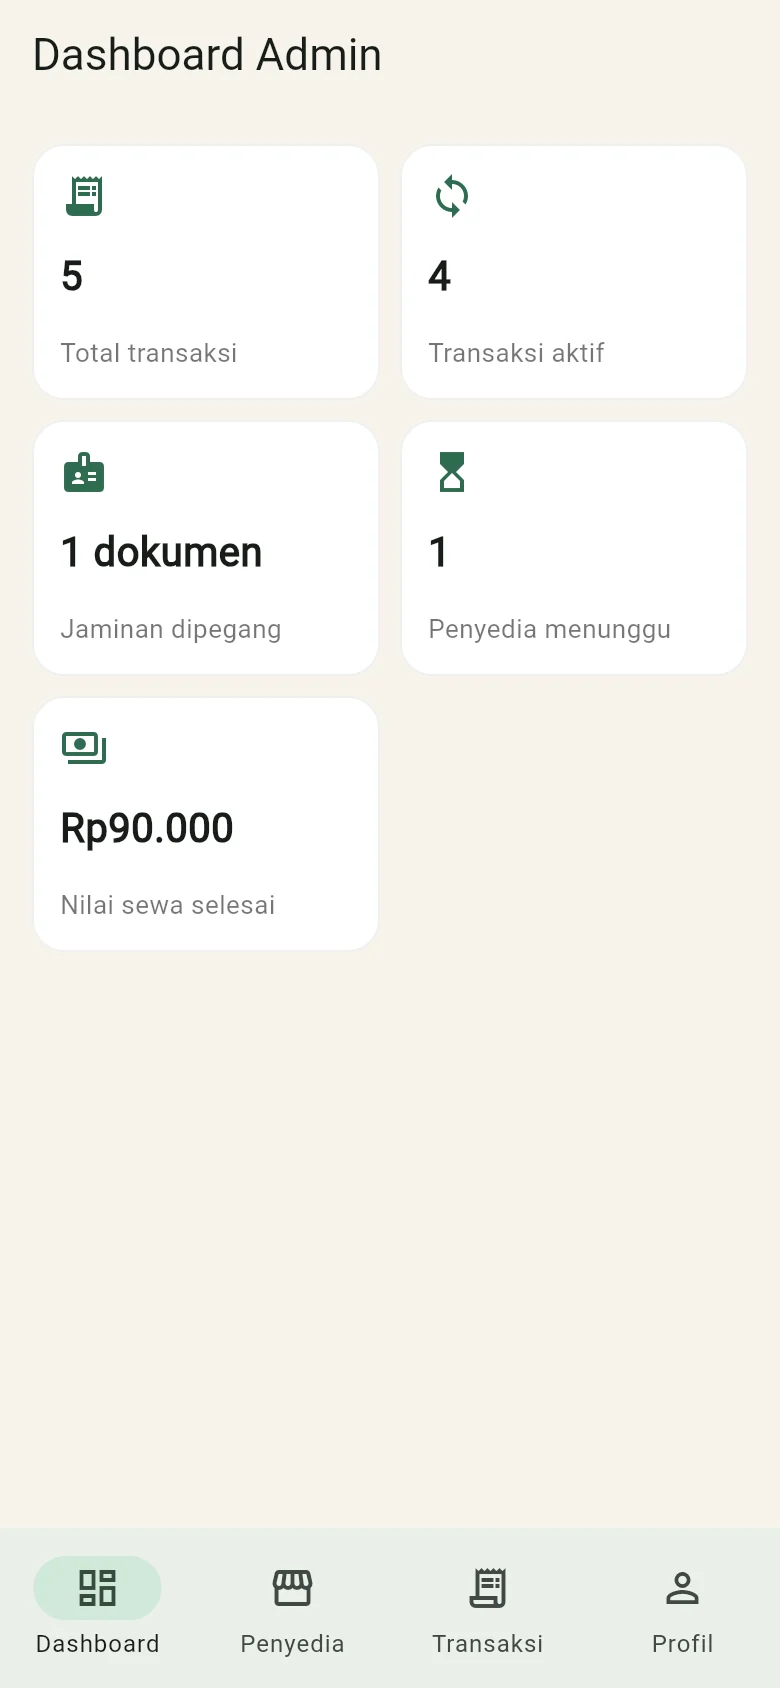
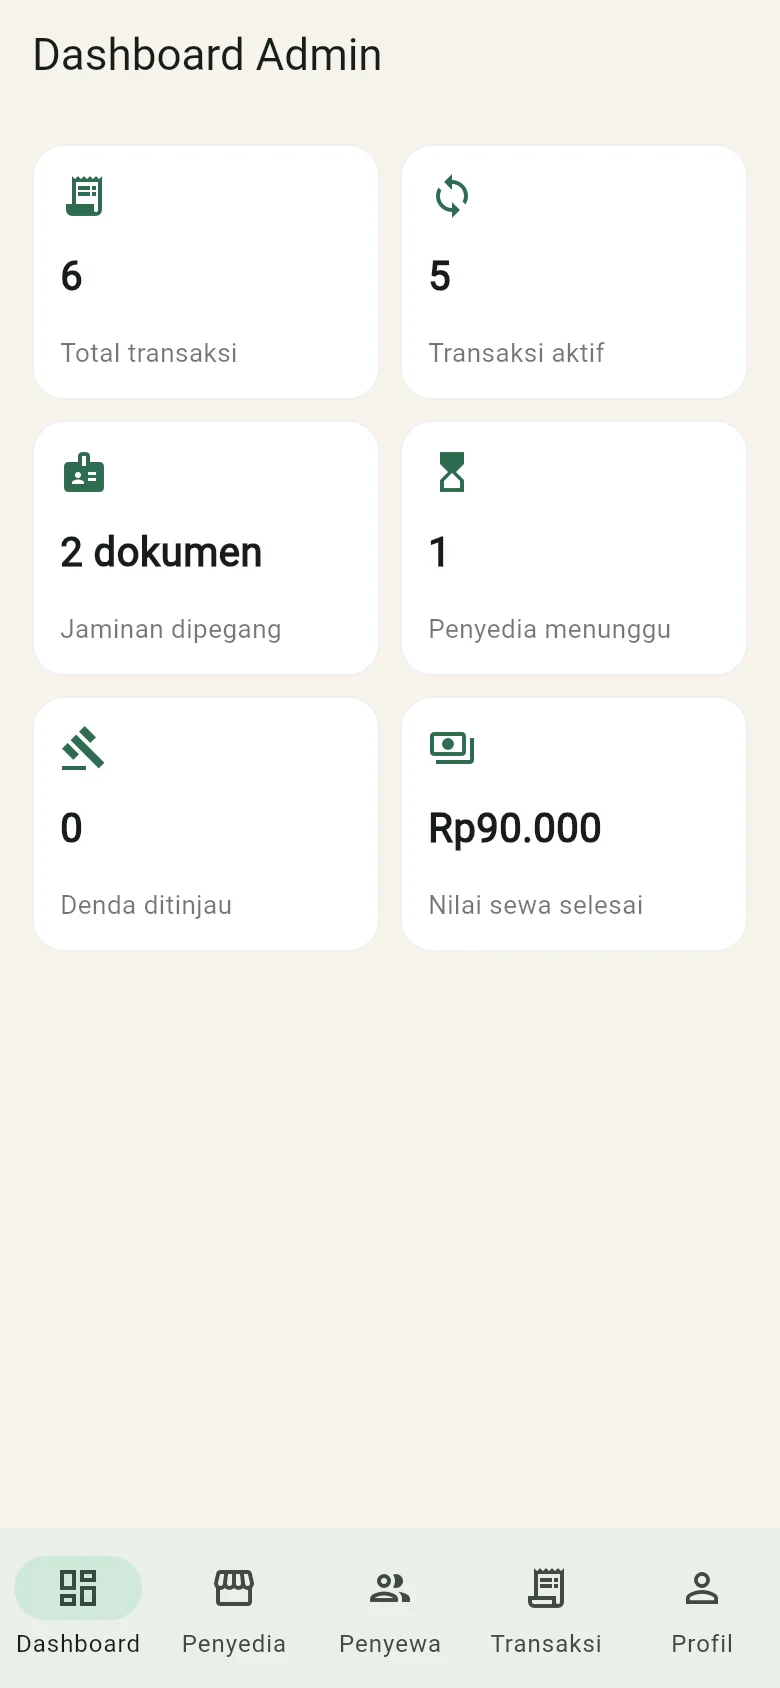
Update sidang deck for store pages and 50 tests
New screenshots for the store list, the store page, the desktop view
and the admin dashboard. The testing slide counts 50 tests with a store
group. Store pages move to the finished scope.

diff --git a/presentasi/index.html b/presentasi/index.html
@@ -226,10 +226,11 @@
         <h3 class="sub">Dikerjakan pada tahap ini</h3>
         <ul class="daftar">
           <li><svg viewBox="0 0 38 38" class="ikon hijau"><path d="M8 20l7 7 15-16"/></svg><p>Aplikasi Flutter untuk Android dan web, dengan tiga peran pengguna.</p></li>
-          <li><svg viewBox="0 0 38 38" class="ikon hijau"><path d="M8 20l7 7 15-16"/></svg><p>Katalog, booking, jaminan dokumen, dan alur status sampai selesai.</p></li>
+          <li><svg viewBox="0 0 38 38" class="ikon hijau"><path d="M8 20l7 7 15-16"/></svg><p>Daftar toko dengan rating, ulasan, follow, dan lokasi Google Maps.</p></li>
+          <li><svg viewBox="0 0 38 38" class="ikon hijau"><path d="M8 20l7 7 15-16"/></svg><p>Booking, jaminan dokumen, dan alur status sampai selesai.</p></li>
           <li><svg viewBox="0 0 38 38" class="ikon hijau"><path d="M8 20l7 7 15-16"/></svg><p>Pembayaran lewat transfer bank dengan unggah foto bukti transfer.</p></li>
           <li><svg viewBox="0 0 38 38" class="ikon hijau"><path d="M8 20l7 7 15-16"/></svg><p>Denda keterlambatan dan kerusakan, serta blacklist penyewa.</p></li>
-          <li><svg viewBox="0 0 38 38" class="ikon hijau"><path d="M8 20l7 7 15-16"/></svg><p>Data disimpan di perangkat pengguna. Alat diambil di tempat penyedia.</p></li>
+          <li><svg viewBox="0 0 38 38" class="ikon hijau"><path d="M8 20l7 7 15-16"/></svg><p>Data disimpan di perangkat. Alat diambil di tempat penyedia.</p></li>
         </ul>
       </div>
       <div class="papan putus" data-step="1">
@@ -237,7 +238,7 @@
         <ul class="daftar">
           <li><svg viewBox="0 0 38 38" class="ikon"><circle cx="19" cy="19" r="12"/><path d="M19 11v8l6 4"/></svg><p>Server Laravel dan database MySQL, supaya data dipakai bersama lintas perangkat.</p></li>
           <li><svg viewBox="0 0 38 38" class="ikon"><circle cx="19" cy="19" r="12"/><path d="M19 11v8l6 4"/></svg><p>Fitur AI: rekomendasi paket alat dan pemeriksaan kondisi alat.</p></li>
-          <li><svg viewBox="0 0 38 38" class="ikon"><circle cx="19" cy="19" r="12"/><path d="M19 11v8l6 4"/></svg><p>Halaman toko penyedia: rating, komentar, follow, dan lokasi di peta.</p></li>
+          <li><svg viewBox="0 0 38 38" class="ikon"><circle cx="19" cy="19" r="12"/><path d="M19 11v8l6 4"/></svg><p>Peta yang tertanam di dalam aplikasi.</p></li>
           <li><svg viewBox="0 0 38 38" class="ikon"><circle cx="19" cy="19" r="12"/><path d="M19 11v8l6 4"/></svg><p>Login dengan akun Google, payment gateway, dan versi iOS.</p></li>
         </ul>
       </div>
@@ -281,10 +282,10 @@
       <div data-in>
         <header><svg viewBox="0 0 68 68" class="ikon"><circle cx="34" cy="20" r="10"/><path d="M12 58c2-14 10-20 22-20s20 6 22 20"/></svg><h3>Penyewa</h3></header>
         <ul>
-          <li>Mencari alat di katalog</li>
+          <li>Memilih toko, mengikuti toko, dan mencari alat</li>
           <li>Booking dengan tanggal, ukuran, dan jaminan</li>
           <li>Mengunggah bukti transfer</li>
-          <li>Memantau status dan membatalkan booking</li>
+          <li>Memantau status, lalu memberi ulasan</li>
         </ul>
       </div>
       <div data-step="1">
@@ -399,14 +400,14 @@
     <h2 class="head">Hasil implementasi</h2>
     <div class="galeri">
       <div class="hp-baris" data-hide-at="1">
-        <figure class="hp"><div class="rangka"><img src="assets/app/katalog.webp" alt="Layar katalog alat"></div><figcaption>Katalog</figcaption></figure>
+        <figure class="hp"><div class="rangka"><img src="assets/app/katalog.webp" alt="Layar daftar toko"></div><figcaption>Daftar toko</figcaption></figure>
+        <figure class="hp"><div class="rangka"><img src="assets/app/toko.webp" alt="Halaman toko dengan rating, tombol ikuti, dan Google Maps"></div><figcaption>Halaman toko</figcaption></figure>
         <figure class="hp"><div class="rangka"><img src="assets/app/detail.webp" alt="Layar detail alat"></div><figcaption>Detail alat</figcaption></figure>
         <figure class="hp"><div class="rangka"><img src="assets/app/booking.webp" alt="Layar booking dengan jaminan"></div><figcaption>Booking dan jaminan</figcaption></figure>
         <figure class="hp"><div class="rangka"><img src="assets/app/bayar2.webp" alt="Detail transaksi dengan cara bayar transfer"></div><figcaption>Bayar dengan transfer</figcaption></figure>
-        <figure class="hp"><div class="rangka"><img src="assets/app/penyedia.webp" alt="Daftar pesanan penyedia"></div><figcaption>Pesanan penyedia</figcaption></figure>
       </div>
       <div class="web" data-step="1">
-        <figure class="browser"><div class="rangka"><div class="bar"><i></i><i></i><i></i></div><img src="assets/app/desktop.webp" alt="Katalog pada layar desktop"></div><figcaption>Versi web menyesuaikan lebar layar</figcaption></figure>
+        <figure class="browser"><div class="rangka"><div class="bar"><i></i><i></i><i></i></div><img src="assets/app/desktop.webp" alt="Halaman toko pada layar desktop"></div><figcaption>Versi web menyesuaikan lebar layar</figcaption></figure>
         <figure class="hp"><div class="rangka"><img src="assets/app/admin.webp" alt="Dashboard admin"></div><figcaption>Dashboard admin</figcaption></figure>
       </div>
     </div>
@@ -424,7 +425,7 @@
     <h2 class="head">Pengujian</h2>
     <div class="uji">
       <div data-in>
-        <p class="skor"><b class="angka" id="skor">44</b><span>dari 44</span></p>
+        <p class="skor"><b class="angka" id="skor">50</b><span>dari 50</span></p>
         <p class="teks">skenario tes otomatis lulus.</p>
         <p class="kecil jelas">Tes otomatis adalah kode yang menjalankan aplikasi lalu memeriksa sendiri hasilnya. Semuanya dijalankan dengan satu perintah: <code>flutter test</code>.</p>
       </div>
@@ -434,7 +435,8 @@
             <li><h3>Alur sewa <b>14</b></h3><div class="titik-uji" data-n="14"></div><p>Contoh: booking dobel ditolak, booking tanpa jaminan ditolak, data tetap ada setelah aplikasi ditutup.</p></li>
             <li><h3>Aturan stok dan jaminan <b>9</b></h3><div class="titik-uji" data-n="9"></div><p>Contoh: yang dihitung puncak pemakaian, NIK yang salah ditolak, nomor dokumen disamarkan.</p></li>
             <li><h3>Denda dan blacklist <b>13</b></h3><div class="titik-uji" data-n="13"></div><p>Contoh: telat 3 hari dihitung 1,5 kali tarif, denda besar menunggu admin, penyewa blacklist tidak bisa booking.</p></li>
-            <li><h3>Layar utama <b>4</b></h3><div class="titik-uji" data-n="4"></div><p>Contoh: layar penyedia dan admin tampil, admin memasukkan penyewa ke blacklist.</p></li>
+            <li><h3>Toko, ulasan, follow <b>5</b></h3><div class="titik-uji" data-n="5"></div><p>Contoh: rating toko adalah rata-rata ulasan, ulasan hanya untuk transaksi selesai.</p></li>
+            <li><h3>Layar utama <b>5</b></h3><div class="titik-uji" data-n="5"></div><p>Contoh: halaman awal menampilkan toko, admin memasukkan penyewa ke blacklist.</p></li>
             <li><h3>Format rupiah <b>3</b></h3><div class="titik-uji" data-n="3"></div><p>Contoh: 45000 tampil sebagai Rp 45.000 saat diketik.</p></li>
             <li><h3>Dialog alasan <b>1</b></h3><div class="titik-uji" data-n="1"></div><p>Tombol Kirim mati selama alasan penolakan masih kosong.</p></li>
           </ul>
@@ -472,7 +474,7 @@
         <ul class="daftar rencana">
           <li><span class="urut">Berikutnya</span><p>Server Laravel dan MySQL, supaya data dipakai bersama lintas perangkat.</p></li>
           <li><span class="urut">Berikutnya</span><p>Fitur AI: rekomendasi paket alat dan pemeriksaan kondisi alat.</p></li>
-          <li><span class="urut">Menyusul</span><p>Halaman toko penyedia: rating, komentar, follow, dan lokasi di peta.</p></li>
+          <li><span class="urut">Menyusul</span><p>Peta yang tertanam di dalam aplikasi.</p></li>
           <li><span class="urut">Menyusul</span><p>Login dengan akun Google, payment gateway, dan versi iOS.</p></li>
         </ul>
       </div>

diff --git a/presentasi/deck.css b/presentasi/deck.css
@@ -513,11 +513,11 @@ ol, ul { list-style: none; }
 .jelas { margin-top: 22px; }
 .jelas code { font-family: ui-monospace, Menlo, monospace; font-size: 0.9em; color: var(--ember); }
 .kelompok { display: grid; }
-.kelompok li { display: grid; grid-template-columns: 380px 1fr; gap: 4px 24px; align-items: center; padding: 11px 0; border-top: 1.5px solid var(--line); }
+.kelompok li { display: grid; grid-template-columns: 380px 1fr; gap: 2px 24px; align-items: center; padding: 8px 0; border-top: 1.5px solid var(--line); }
 .kelompok li:first-child { border-top: 0; padding-top: 0; }
 .kelompok h3 { font-size: 31px; font-weight: 500; }
 .kelompok h3 b { margin-left: 8px; font-family: var(--display); font-weight: 800; font-size: 40px; color: var(--summit); }
-.kelompok p { grid-column: 1 / -1; font-size: 24px; line-height: 1.32; color: var(--mist); }
+.kelompok p { grid-column: 1 / -1; font-size: 23px; line-height: 1.32; color: var(--mist); }
 .titik-uji { display: flex; flex-wrap: wrap; gap: 8px; }
 .titik-uji i { width: 22px; height: 22px; border-radius: 50%; background: var(--moss); }
 .tabel-uji { width: 100%; border-collapse: collapse; font-size: 28px; line-height: 1.3; }

diff --git a/presentasi/deck.js b/presentasi/deck.js
@@ -406,7 +406,7 @@ const adegan = {
 
   pengujian: {
     masuk(tl) {
-      tl.add(hitung($('#skor'), 0, 44, 1.6, 'power1.out'), 0.6)
+      tl.add(hitung($('#skor'), 0, 50, 1.6, 'power1.out'), 0.6)
         .from('.titik-uji i', { autoAlpha: 0, scale: 0.4, duration: d(0.35), ease: 'back.out(2)', stagger: 0.05 }, 0.6);
     },
   },

diff --git a/presentasi/README.md b/presentasi/README.md
@@ -39,11 +39,11 @@ terbit.
 
 - Rumusan masalah, tujuan, dan kesimpulan ditulis untuk fitur yang sudah ada di aplikasi. Server Laravel, fitur AI,
   halaman toko penyedia, login Google, payment gateway, dan iOS ditulis sebagai rencana kerja ("dikerjakan setelah tahap ini"), bukan
-  saran. Denda dan blacklist sudah dibuat. Rencana lengkapnya ada di `../docs/08-RENCANA-KERJA.md`.
+  saran. Denda, blacklist, dan halaman toko sudah dibuat. Rencana lengkapnya ada di `../docs/08-RENCANA-KERJA.md`.
 - Data latar belakang punya sumber, dan daftarnya ada di slide "Sumber data". Jumlah pendaki Gede Pangrango, kasus
   Opak Adventure, Dahlia Adventure, dan EX Adventure Solo dibaca langsung dari PDF jurnalnya. Angka Rinjani (IDN Times)
   dan Basarnas (Kompas.com) dibaca dari artikel berita; buka lagi tautannya sebelum sidang.
 - Belum ada sumber untuk klaim "penyewa tidak tahu tempat sewa". Klaim itu tidak ada di slide.
 - Makna logo dan "arah berikutnya" di slide alur bisnis (komisi per transaksi) adalah usulan, belum keputusan.
-- Angka pengujian (44 tes, hasil uji di Redmi 17 dan Chrome) berasal dari `../rentgear_app/HANDOFF.md`. Kalau jumlah tes
+- Angka pengujian (50 tes, hasil uji di Redmi 17 dan Chrome) berasal dari `../rentgear_app/HANDOFF.md`. Kalau jumlah tes
   berubah, perbarui slide Pengujian dan angka di `adegan.pengujian` pada `deck.js`.
